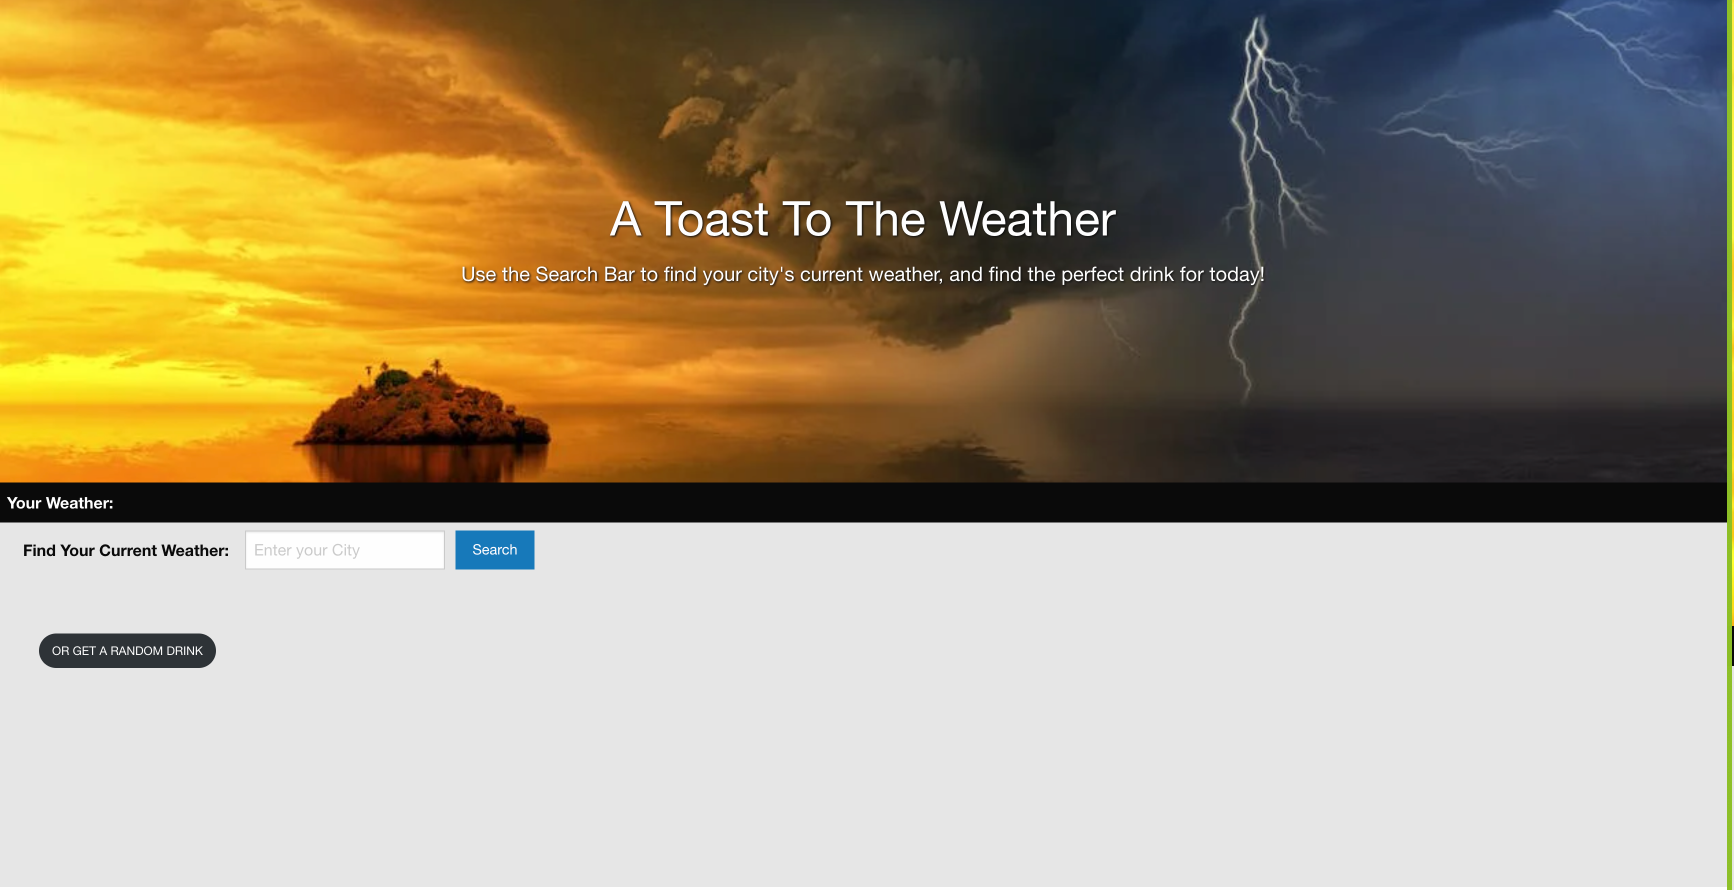
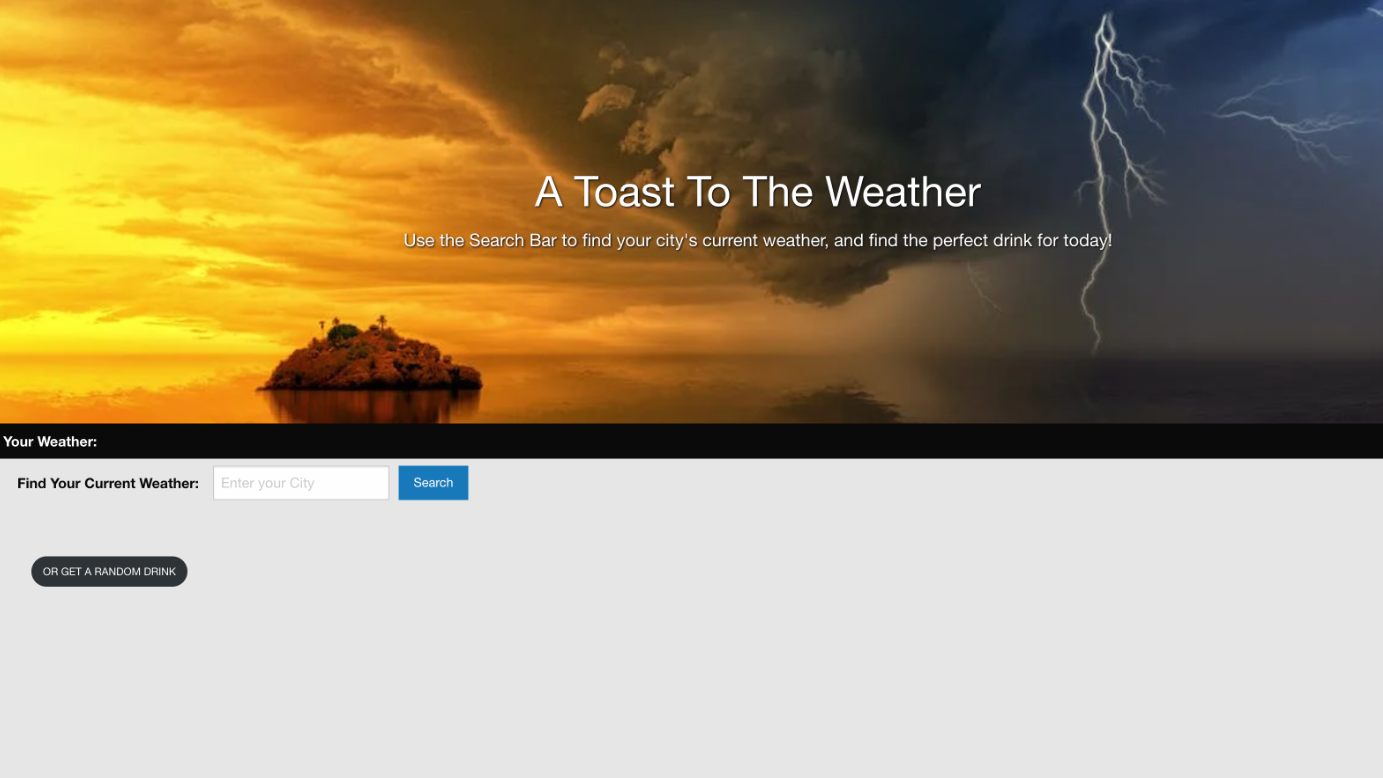
added content into Portfolio page and created Project.js file

diff --git a/src/pages/Portfolio.js b/src/pages/Portfolio.js
@@ -1,21 +1,25 @@
 import React from 'react';
+import projectInfo from "../components/infoProjects"
+import Projects from '../components/Projects';
+
 
 // TODO: Need to add projects/layouts for Portfolio
 export default function Portfolio() {
     return (
-        <div >
-            <h1 className="text-2xl mb-10">Portfolio</h1>
-        
-            <div class="row h-100 align-items-center">
-                <p>
-                    Ny name is Joaquin. I'm a mathematics content specialist transitioning into the world of programming.
+        <>
+            <div>
+                <h1 className="text-2xl mb-10">Portfolio</h1>
 
-                    I recently completed an intensive coding bootcamp through the University of Texas at Austin where I acquired a diverse skill set in programming languages and methodologies.</p><br />
-
-                    <p>I am actively seeking opportunities that allow me to merge my mathematical knowledge and programming skills. My strong analytical mindset and problem-solving abilities make me well-suited for collaborative environments that demand attention to detail.
-
-                    Let's connect and discuss how we can make a positive impact together.</p>
+                <div className="grid grid-cols-1 md:grid-cols-2">
+                    {projectInfo.map((project, index) => (
+                        <div key={index} className="flex flex-row m-10 justify-center">
+                            <Projects
+                                key={index} project={project}
+                            />
+                        </div>
+                    ))}
+                </div>
             </div>
-        </div>
-    )
+        </>
+    );
 }

diff --git a/src/App.css b/src/App.css
@@ -29,3 +29,61 @@
   color: #4f4fd4
 }
 
+.project-card {
+  /* For example, you can set a fixed width and height to create equal-sized cards */
+  position: relative;
+  display: flex;
+  flex-direction: column;
+  justify-content: center;
+  align-items: center;
+  overflow: hidden;
+  transition: opacity 0.3s, background-color 0.3s; /* Add transition for smooth effect */
+}
+
+.project-details {
+  position: absolute;
+  top: 0;
+  left: 0;
+  width: 100%;
+  height: 100%;
+  background-color: rgba(0, 0, 0, 0.5); /* Background color with 50% opacity */
+  display: flex;
+  flex-direction: column;
+  justify-content: center;
+  align-items: center;
+  opacity: 0; /* Initially hidden */
+  transition: opacity 0.3s; /* Add a transition effect for smooth opacity change */
+  z-index: 1;
+}
+
+.project-image {
+  /* To make the images cover the entire card while maintaining aspect ratio, use object-fit */
+  width: 100%;
+  height: 100%;
+  object-fit: contain;
+  transition: opacity 0.3s, background-color 0.3s;
+}
+
+.project-card:hover .project-details {
+  opacity: 0.9; /* Show the details on hover */
+  background-color: #f9f9f9; /* Light white background color */
+  border: 2px solid #222; /* Black border color */
+  font: black;
+}
+
+.project-title {
+  font-size: 20px;
+  font-weight: bold;
+  margin-bottom: 8px;
+}
+
+.github-icon {
+  font-size: 24px;
+  margin-bottom: 8px;
+}
+
+.project-description {
+  font-size: 16px;
+  text-align: center;
+  padding: 0 10px;
+}

diff --git a/src/pages/About.js b/src/pages/About.js
@@ -3,10 +3,10 @@ import circleImage from "../assets/JoaqSala-profile-img.png"
 
 export default function About() {
     return (
-        <div >
+        <>
             <h1 className="text-2xl mb-10">About me</h1>
             <div className="h-48 w-48 rounded-md overflow-hidden mb-10">
-            <img src={circleImage} alt="Joaquin Salazar" />
+                <img src={circleImage} alt="Joaquin Salazar" />
             </div>
             <div class="row align-items-center">
                 <p>
@@ -14,10 +14,10 @@ export default function About() {
 
                     I recently completed an intensive coding bootcamp through the University of Texas at Austin where I acquired a diverse skill set in programming languages and methodologies.</p><br />
 
-                    <p>I am actively seeking opportunities that allow me to merge my mathematical knowledge and programming skills. My strong analytical mindset and problem-solving abilities make me well-suited for collaborative environments that demand attention to detail.
+                <p>I am actively seeking opportunities that allow me to merge my mathematical knowledge and programming skills. My strong analytical mindset and problem-solving abilities make me well-suited for collaborative environments that demand attention to detail.
 
                     Let's connect and discuss how we can make a positive impact together.</p>
             </div>
-        </div>
+        </>
     );
 }

diff --git a/src/components/Projects.js b/src/components/Projects.js
@@ -1,0 +1,19 @@
+import React from "react";
+import { FaGithub } from "react-icons/fa";
+
+export default function Projects({ project }) {
+    return (
+        <div className="project-card">
+            <img src={project.img} alt={project.title} className="project-image" />
+            <div className="project-details">
+                <a href={project.websiteLink} target="_blank" rel="noopener noreferrer">
+                <h3 className="project-title">{project.title}</h3>
+                </a>
+                <a href={project.githubLink} target="_blank" rel="noopener noreferrer">
+                    <FaGithub className="github-icon" />
+                </a>
+                <p className="project-description">{project.description}</p>
+            </div>
+        </div>
+    );
+}

diff --git a/src/pages/layout.js b/src/pages/layout.js
@@ -16,7 +16,7 @@ export default function Layout() {
             <div className="flex flex-col min-h-screen">
                 <Header />
                 <div className="bg-gradient-to-r from-slate-200 to-slate-400 flex-grow">
-                    <div className="px-20 py-4 mx-auto max-w-screen-xl md:min-h-screen">
+                    <div className="px-3 md:px-6 lg:px-10 xl:px-15 py-4 mx-auto max-w-screen-xl md:min-h-screen">
                         <Outlet />
                     </div>
                     <Footer />
